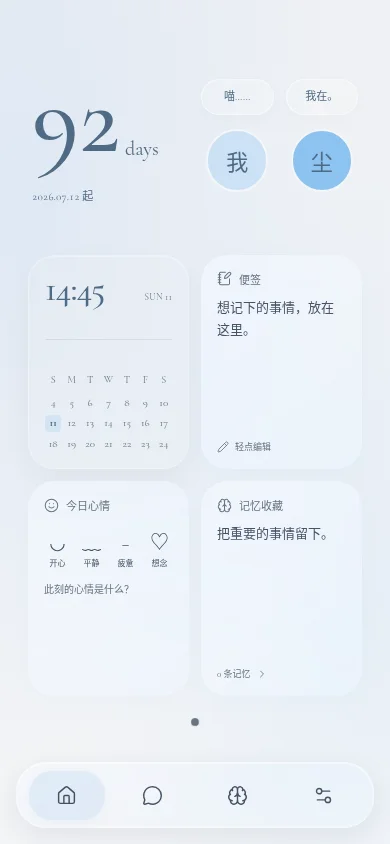
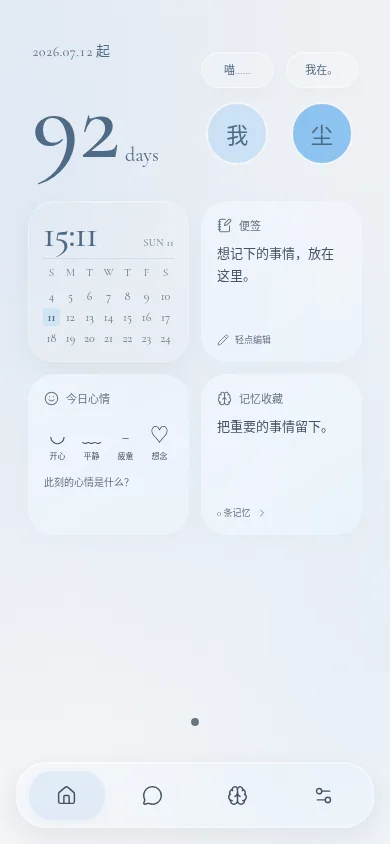
Keep home widgets square and refine anniversary and calendar typography

diff --git a/src/style.css b/src/style.css
@@ -118,13 +118,13 @@ dialog[open]::backdrop{animation:backdrop-arrive 180ms ease-out}
 .home-widget .anniversary-horizontal{height:100%;padding:8px 4px;background:transparent;border:0;box-shadow:none;backdrop-filter:none;display:flex;align-items:center}
 .anniversary-row{width:100%;display:grid;grid-template-columns:minmax(0,1fr) minmax(0,1fr);align-items:center;gap:12px}
 .anniversary-horizontal .anniversary-days{padding:0}
-.anniversary-horizontal .day-count{position:relative;display:flex;align-items:flex-end;gap:5px;padding:0;margin:0 0 18px;flex-wrap:nowrap}
+.anniversary-horizontal .day-count{position:relative;display:flex;align-items:flex-end;gap:5px;padding:0;margin:0;flex-wrap:nowrap}
 .anniversary-horizontal .day-count strong{font-family:var(--font-en);font-variant-numeric:normal;font-size:clamp(86px,26vw,104px);line-height:1;font-weight:500;letter-spacing:0}
 .anniversary-horizontal .day-count>span{position:static;flex-shrink:0;margin:0 0 10px;font-size:20px;line-height:1;color:var(--theme-text)}
 .anniversary-horizontal .day-count.medium-count strong{font-size:clamp(70px,22vw,88px)}
 .anniversary-horizontal .day-count.long-count strong{font-size:clamp(52px,16vw,64px)}
 .anniversary-horizontal .day-count.extra-long-count strong{font-size:clamp(42px,13vw,52px)}
-.anniversary-horizontal .since{font-size:11px;letter-spacing:0;font-variant-numeric:tabular-nums}
+.anniversary-horizontal .since{font-size:14px;line-height:1.4;margin-bottom:12px;letter-spacing:0;font-variant-numeric:tabular-nums}
 .anniversary-companions{min-width:0;display:grid;grid-template-columns:repeat(2,minmax(0,1fr));gap:12px}
 .anniversary-person{min-width:0;display:flex;flex-direction:column;align-items:center;gap:14px}
 .anniversary-pill{position:relative;display:flex;align-items:center;justify-content:center;width:100%;min-height:36px;max-height:56px;padding:7px 5px;border-radius:18px;background:var(--bubble-bg);border:1px solid var(--bubble-rim);box-shadow:inset 0 1px 0 rgb(255 255 255 / .25),0 4px 14px rgb(0 0 0 / .025);backdrop-filter:blur(16px);-webkit-backdrop-filter:blur(16px);font-size:11px;line-height:1.4;overflow-wrap:anywhere;white-space:pre-wrap;color:var(--ink);text-align:center}
@@ -137,9 +137,9 @@ dialog[open]::backdrop{animation:backdrop-arrive 180ms ease-out}
 .color-presets{flex-wrap:wrap}
 
 /* A six-row desktop, with 4×2 and 2×2 widgets sharing the same cells. */
-.home-desktop{height:100%;min-height:0}
-.home-desktop-page{min-height:330px;position:relative}
-.home-desktop .widget-grid{height:100%;margin:0;grid-template-columns:repeat(4,minmax(0,1fr));grid-template-rows:repeat(6,minmax(0,1fr));gap:12px;align-items:stretch}
+.home-desktop{height:100%;min-height:0;container-type:inline-size}
+.home-desktop-page{min-height:calc(150cqw + 6px);position:relative}
+.home-desktop .widget-grid{height:auto;margin:0;grid-template-columns:repeat(4,minmax(0,1fr));grid-template-rows:repeat(6,calc((100cqw - 36px) / 4));gap:12px;align-items:stretch}
 .home-desktop .widget{min-height:0;padding:16px;overflow:hidden}
 .home-desktop .widget p{margin-top:10px;display:-webkit-box;-webkit-line-clamp:3;-webkit-box-orient:vertical;overflow:hidden}
 .home-desktop .widget-foot{padding-top:8px;flex-shrink:0}
@@ -172,16 +172,16 @@ dialog[open]::backdrop{animation:backdrop-arrive 180ms ease-out}
 /* Reference calendar: live time, day tag, divider and a three-week window. */
 .widget-surface>.date-widget{background:rgb(var(--glass-tint) / .07);border:1px solid rgb(255 255 255 / .25);box-shadow:0 12px 30px rgb(0 0 0 / .045),inset 0 1px 0 rgb(255 255 255 / .3);backdrop-filter:blur(16px);-webkit-backdrop-filter:blur(16px);justify-content:space-between;gap:10px}
 .calendar-head{display:flex;justify-content:space-between;align-items:baseline;gap:5px;min-width:0}
-.calendar-head time{font-family:var(--font-en);font-size:clamp(28px,9vw,38px);font-weight:500;line-height:1;letter-spacing:-.03em;white-space:nowrap;color:var(--theme-text)}
-.calendar-tag{font-size:9px;white-space:nowrap;letter-spacing:.04em;color:var(--muted)}
+.calendar-head time{font-family:var(--font-en);font-size:clamp(30px,9.5vw,40px);font-weight:500;line-height:1;letter-spacing:-.03em;white-space:nowrap;color:var(--theme-text)}
+.calendar-tag{font-size:10px;white-space:nowrap;letter-spacing:.04em;color:var(--muted)}
 .calendar-divider{width:100%;height:1px;flex-shrink:0;background:var(--hairline)}
-.calendar-grid{display:grid;grid-template-columns:repeat(7,minmax(0,1fr));gap:4px 2px;text-align:center;font-size:11px;line-height:1.5;color:var(--muted)}
+.calendar-grid{display:grid;grid-template-columns:repeat(7,minmax(0,1fr));gap:3px 2px;text-align:center;font-size:12px;line-height:1.5;color:var(--muted)}
 .calendar-grid span{min-width:0;border-radius:4px}
-.calendar-weekday{font-size:10px;padding-bottom:3px}
+.calendar-weekday{font-size:11px;padding-bottom:3px}
 .calendar-day.active{background:rgb(var(--tint) / .24);color:var(--theme-text);font-weight:700}
 .calendar-day.adjacent-month{opacity:.6}
-@media(max-width:380px){.calendar-head time{font-size:29px}.calendar-tag{font-size:8px}.calendar-grid{font-size:10px;gap:3px 1px}}
-@media(max-height:720px){.date-widget{gap:5px!important}.calendar-grid{gap:1px}.calendar-weekday{padding-bottom:0}.calendar-head time{font-size:28px}.home-editing .anniversary-horizontal .day-count{margin-bottom:12px}.home-editing .anniversary-horizontal .day-count>span{font-size:17px}}
+@media(max-width:380px){.calendar-head time{font-size:31px}.calendar-tag{font-size:9px}.calendar-grid{font-size:11px;gap:2px 1px}}
+@media(max-height:720px){.date-widget{gap:4px!important}.calendar-grid{gap:1px}.calendar-weekday{padding-bottom:0}.calendar-head time{font-size:30px}.home-editing .anniversary-horizontal .since{margin-bottom:8px}.home-editing .anniversary-horizontal .day-count>span{font-size:17px}}
 
 /* System-wide dark appearance: subdued wallpaper, charcoal surfaces and soft whites. */
 :root[data-theme=dark]{--theme-text:color-mix(in srgb,var(--accent) 85%,#d3d6dd);--bubble-bg:rgb(42 44 51 / .4);--bubble-rim:rgb(255 255 255 / .1)}
@@ -201,10 +201,11 @@ dialog[open]::backdrop{animation:backdrop-arrive 180ms ease-out}
 :root[data-theme=dark] .primary{background:#bcc2cc;color:#15171c}
 @media(max-height:720px){
  .home-editing .date-widget{gap:3px!important}
- .home-editing .calendar-head time{font-size:24px}
- .home-editing .calendar-grid{font-size:9px;line-height:1.25}
- .home-editing .calendar-weekday{font-size:9px}
 }
 
 /* Keep only the page dots above the dock, without the former footer gap. */
 .home-page{padding-bottom:8px}
+/* Calendar content keeps its padding after the card becomes square. */
+.home-desktop .date-widget{padding:14px;gap:4px}
+.calendar-head,.calendar-grid{flex-shrink:0}
+@media(max-width:380px){.home-desktop .date-widget{padding:11px}.calendar-grid{line-height:1.35}}

diff --git a/src/views.js b/src/views.js
@@ -42,7 +42,7 @@ export function home(state,ui={}) {
  };
  const wrap=(type,content,slot)=>`<div class="home-widget ${type==='anniversary'?'hero-widget':''}" data-home-widget="${type}" style="grid-column:${slot.col} / span ${slot.width};grid-row:${slot.row} / span ${slot.height}" tabindex="0" aria-label="${type==='anniversary'?'纪念日':label(type)}，${editing?'拖拽移动，Alt 加方向键调整位置':'长按或右键打开菜单'}"><div class="widget-surface" ${editing?'inert':''}>${content}</div>${editing?`<div class="widget-drag-surface" aria-hidden="true"></div><button class="widget-remove" data-home-action="hide" data-type="${type}" aria-label="移除${type==='anniversary'?'纪念日':label(type)}">${icon('close')}</button>`:''}</div>`;
  const count=days>0?days:1-(days||0);
- const hero=`<section class="anniversary anniversary-horizontal"><div class="anniversary-row"><div class="anniversary-days"><div class="day-count ${String(count).length===3?'medium-count':''} ${String(count).length>3?'long-count':''} ${String(count).length>4?'extra-long-count':''}"><strong data-home-days>${count}</strong><span data-home-days-unit>days</span></div><span class="since">${escape(h.since.replaceAll('-','.'))} ${days>0?'起':'开始'}</span></div><div class="anniversary-companions">${[['user',h.userName,h.userBubble||'喵……'],['ai',state.persona.name,h.aiBubble||'我在。']].map(([who,name,bubble])=>`<div class="anniversary-person"><span class="anniversary-pill" title="${escape(name)}：${escape(bubble)}"><span class="sr-only">${escape(name)}：</span><span class="anniversary-bubble-text">${escape(bubble)}</span></span><span class="anniversary-avatar ${who}" title="${escape(name)}" aria-label="${escape(name)}">${avatar(state,who)}</span></div>`).join('')}</div></div></section>`;
+ const hero=`<section class="anniversary anniversary-horizontal"><div class="anniversary-row"><div class="anniversary-days"><span class="since">${escape(h.since.replaceAll('-','.'))} ${days>0?'起':'开始'}</span><div class="day-count ${String(count).length===3?'medium-count':''} ${String(count).length>3?'long-count':''} ${String(count).length>4?'extra-long-count':''}"><strong data-home-days>${count}</strong><span data-home-days-unit>days</span></div></div><div class="anniversary-companions">${[['user',h.userName,h.userBubble||'喵……'],['ai',state.persona.name,h.aiBubble||'我在。']].map(([who,name,bubble])=>`<div class="anniversary-person"><span class="anniversary-pill" title="${escape(name)}：${escape(bubble)}"><span class="sr-only">${escape(name)}：</span><span class="anniversary-bubble-text">${escape(bubble)}</span></span><span class="anniversary-avatar ${who}" title="${escape(name)}" aria-label="${escape(name)}">${avatar(state,who)}</span></div>`).join('')}</div></div></section>`;
  const pages=ui.dragPages||h.pages||[['anniversary',...h.widgets.map(w=>w.type)]],current=Math.min(ui.page||0,pages.length-1);
  const visible=pages[current].filter(type=>type==='anniversary'?h.anniversaryVisible!==false:h.widgets.some(w=>w.type===type&&w.enabled));
  return `<div class="home-content home-desktop ${editing?'home-editing':''}">${editing?`<div class="home-edit-toolbar"><button class="glass" data-home-action="add" aria-label="添加小组件">${icon('plus')}组件</button><button class="glass" data-home-action="add-page" ${pages.length>=12?'disabled':''}>${icon('layout')}新增页</button><button class="glass" data-home-action="done">完成</button></div><p class="home-edit-help">拖拽调整位置 · 拖到边缘停留可翻页</p>`:''}<section class="home-desktop-page" aria-label="第 ${current+1} 页" data-home-page="${current}"><div class="widget-grid">${homeGridSlots(visible).map(slot=>wrap(slot.type,slot.type==='anniversary'?hero:widgets[slot.type],slot)).join('')}</div>${visible.length?'':`<div class="home-page-empty"><span>${icon('layout')}</span><p>${editing?'从其他页拖入组件，或添加小组件':'这一页，留给新的日常。'}</p>${editing?'<button class="glass" data-home-action="add">添加小组件</button>':''}</div>`}</section><div class="home-page-controls"><nav class="home-page-dots" aria-label="主页分页">${pages.map((_,i)=>`<button data-home-action="page" data-page="${i}" aria-label="第 ${i+1} 页" ${i===current?'aria-current="page"':''}><span></span></button>`).join('')}</nav></div></div>`;

diff --git a/docs/CODEX_HANDOFF.md b/docs/CODEX_HANDOFF.md
@@ -31,10 +31,10 @@
 
 - 默认打开主页；主导航只有「主页、对话、记忆、设置」，底栏仅显示图标，保留无障碍名称；背景为高透明玻璃、细亮边与模糊效果。对话页与完整会话列表隐藏底栏。
 - 主页顶部原来的品牌/「我们的主页」标题区域已删除。
-- 纪念日透明无边框，占 4×2：左侧放大的衬线数字、数字右下侧 days 和开始日期；右侧两个独立圆头像并排，各自上方为带向下尖角的中性高透玻璃气泡；气泡背景只随昼夜切换，数字、气泡文字、日期和头像占位文字随主题色变化。头像素材沿用用户自己的图片。原标题与下方说明不再展示或提供编辑，旧数据仍保留在存储及备份中。
-- 纪念日默认开始日期为 2026-07-12；旧数据的 2026-10-07 一次性迁移为该日期，其他已有日期保留，迁移后仍可自由编辑。日期与数字间距增加。
-- 日历遵循用户提供的玻璃卡片示例：实时 24 小时时间、星期/日期标签、分隔线、前一周/本周/后一周共 21 天，突出今天；跨日刷新，跨月/跨年正确排列，保留星期显示设置与组件名。
-- 主页每页固定 4 列 × 6 行；纪念日占 4×2，今天、便签、心情、记忆收藏各占 2×2。按组件顺序寻找空位排列，不重写原分页数据。
+- 纪念日透明无边框，占 4×2：左侧开始日期（14px，位于数字上方）、放大的衬线数字及数字右下侧 days；右侧两个独立圆头像并排，各自上方为带向下尖角的中性高透玻璃气泡；气泡背景只随昼夜切换，数字、气泡文字、日期和头像占位文字随主题色变化。头像素材沿用用户自己的图片。原标题与下方说明不再展示或提供编辑，旧数据仍保留在存储及备份中。
+- 纪念日默认开始日期为 2026-07-12；旧数据的 2026-10-07 一次性迁移为该日期，其他已有日期保留，迁移后仍可自由编辑。日期上移至数字上方，保留与数字之间的留白。
+- 日历遵循用户提供的玻璃卡片示例：实时 24 小时时间、星期/日期标签、分隔线、前一周/本周/后一周共 21 天，突出今天，字号在原示例基础上略微放大；跨日刷新，跨月/跨年正确排列，保留星期显示设置与组件名。
+- 主页每页保留 4 列 × 6 行；每格高度由容器宽度计算，宽高相等，不再按屏幕高度拉伸。纪念日占 4×2，今天、便签、心情、记忆收藏各占 2×2 且严格为 1:1。多余屏幕高度留作桌面留白，短屏编辑模式允许纵向滚动，不压扁组件。按组件顺序寻找空位排列，不重写原分页数据。
 - 长按或右键主页组件，在组件附近弹出「编辑内容、编辑主页、移除」菜单；支持键盘入口、方向键、Escape 与点击外部关闭。编辑内容只打开当前组件的编辑抽屉。
 - 「编辑主页」进入全局布局模式，直接拖拽组件排序（含纪念日），使用角落的 × 移除，不再提供选中模式或箭头排序，也不打开内容编辑。底部「编辑主页」入口已按用户要求删除，长按组件菜单仍可进入编辑。
 - 主页支持新增分页（最多 12 页）、左右滑动和圆点切换；左右箭头已删除，分页圆点保留，底部留白收紧。编辑模式拖到左右边缘或分页控件停留约 650ms 可翻页并移动组件；拖拽中显示浮起的组件与原位占位，释放才保存，取消不保存。

diff --git a/docs/verification.md b/docs/verification.md
@@ -60,3 +60,10 @@
 
 - 删除底部“编辑主页”入口及左右箭头，仅保留分页圆点；减少底部留白，圆点点击区域保留 44px 高度。
 - 20 项测试及语法检查通过；Chromium 实际触摸复查组件长按菜单进入编辑、新增页、跨页拖拽和滑动翻页，均正常。
+
+## 正方形组件与字体微调
+
+- 保留 4×6 网格，每格宽高相等：390px 宽手机普通组件 161×161，320px 小屏 134×134。4×2 纪念日仍占两个普通组件宽度。
+- 开始日期移至纪念日数字上方并从 11px 调为 14px；日历日期从 11→12px、小屏从 10→11px，时间/星期标签略微放大，内部留白适配方形卡片。
+- Chromium 验证 320×640 / 390×844 / 430×932 / 700×900 / 844×390：普通组件宽高差 <1px、日期在数字上方、无横向溢出，正常/编辑/夜间模式纪念日与日历内容均在组件范围内。短屏编辑可滚动。
+- 20 项测试及语法检查通过；实际触摸复查长按进入编辑、新增分页、跨页拖拽、滑动翻页和导航，无 JavaScript 错误。
